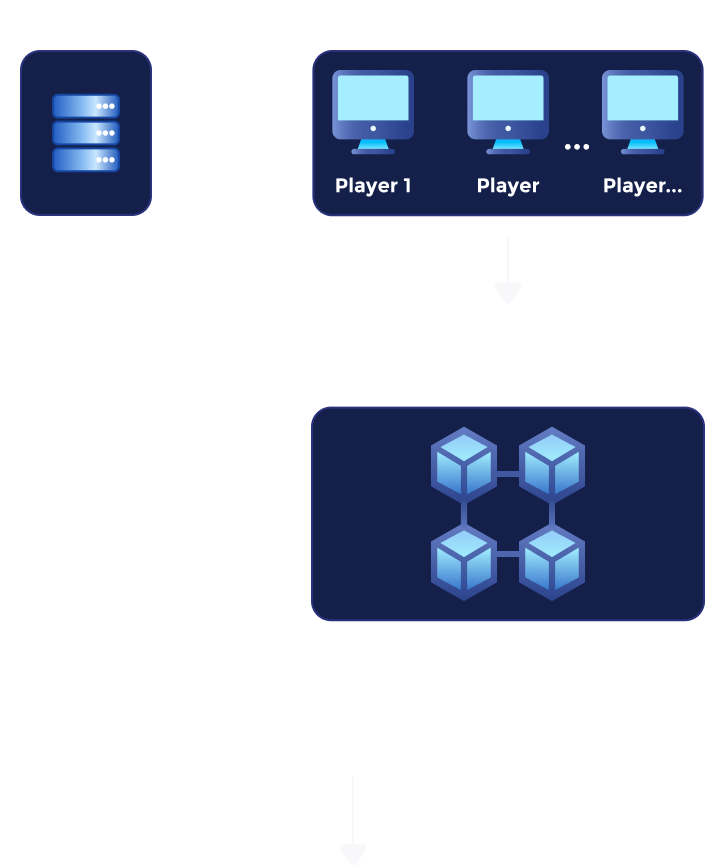
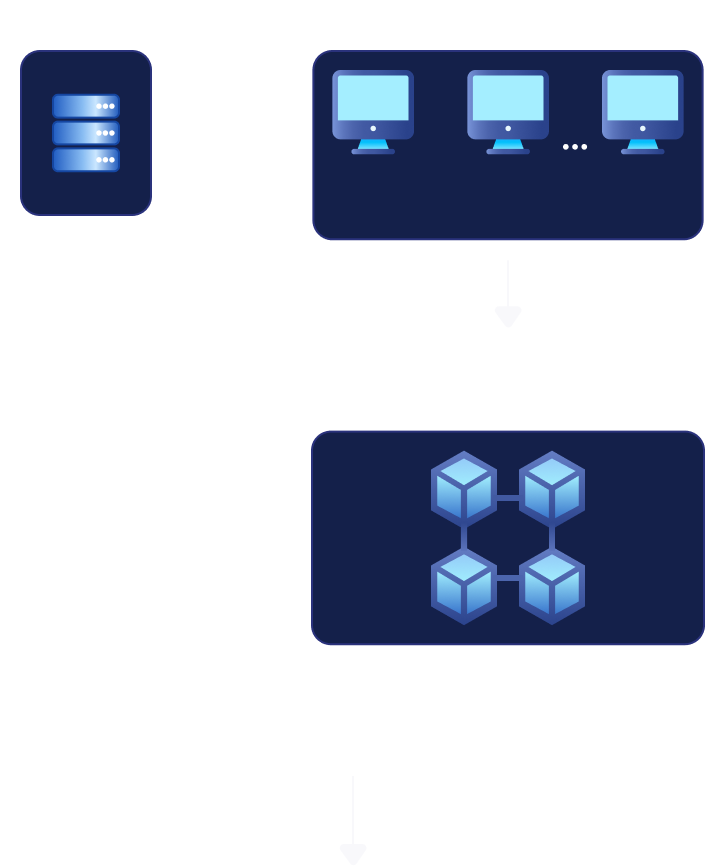
feat: PF guide example section 2 & 3

Changed region(s): [[0.4363, 0.4677, 1.0, 0.7483], [0.4363, 0.1871, 0.9972, 0.2806], [0.8102, 0.1559, 0.8414, 0.1871]]

diff --git a/src/components/game-guide-pf/bac-ball/content.tsx b/src/components/game-guide-pf/bac-ball/content.tsx
@@ -23,7 +23,59 @@ const renderBacBallAppliedInGame = (t: TFnType<DefaultParamType, string, Transla
 };
 
 const renderPFAppliedExample = (t: TFnType<DefaultParamType, string, TranslationKey>, imgVersion: string) => {
-    return <div className={Styles["pf-applied-example"]}></div>;
+    return (
+        <div className={Styles["pf-applied-example"]}>
+            <div className={Styles["pf-applied-example-block-1"]}>
+                <div className={`${Styles["pf-applied-example-text-1"]} ${Styles["pf-text-highlight"]}`}>
+                    {t("pf_server_Seed", { ns: "Common" })}
+                </div>
+                <div className={`${Styles["pf-applied-example-text-2"]} ${Styles["pf-text-highlight"]}`}>
+                    {t("pf_client_seed", { ns: "Common" })}
+                </div>
+                <div className="center-img">
+                    <img
+                        className={Styles["pf-work-example-img-background-full"]}
+                        src={`./static/images/pf-snng/pf-applied-ingame-example-1.png?v=${imgVersion}`}
+                        alt="pf"
+                    ></img>
+                </div>
+                <div className={`${Styles["pf-applied-example-text-3"]} ${Styles["pf-text-highlight"]} text-center`}>
+                    {t("pf_ header_merge_client_seed", { ns: "Common" })} <br />({t("pf_provably_guide_flow", { ns: "SabaNumber" })})
+                </div>
+                <div className={Styles["pf-applied-example-img-text"]}>
+                    <span>{t("glossary_player", { ns: "BacBall" })} 1</span>
+                    <span>{t("glossary_player", { ns: "BacBall" })} 2</span>
+                    <span>{t("glossary_player", { ns: "BacBall" })}...</span>
+                </div>
+            </div>
+            <div className={Styles["pf-applied-example-block-2"]}>
+                <div className={`text-center ${Styles["pf-text-highlight"]}`}>
+                    {t("pf_combined Seed", { ns: "Spaceflight" })} <br />({t("pf_server_Seed", { ns: "Common" })} +{" "}
+                    {t("pf_ header_merge_client_seed", { ns: "Common" })})
+                </div>
+                <div className="center-img" style={{ paddingTop: "0" }}>
+                    <img
+                        className={Styles["pf-merge-seed-img"]}
+                        src={`./static/images/pf-snng/pf-merge-seed.png?v=${imgVersion}`}
+                        alt="pf"
+                    ></img>
+                </div>
+            </div>
+            <div className={Styles["pf-combined-hash"]}>
+                <div className={`${Styles["pf-combined-hash-text"]} ${Styles["pf-text-highlight"]}`}>
+                    {t("pf_header_combined_sha512_hash", { ns: "Common" })}
+                </div>
+                <div className="center-img" style={{ paddingTop: "0" }}>
+                    <img
+                        className={Styles["pf-combined-hash-img"]}
+                        src={`./static/images/pf-snng/pf-combined-hash.png?v=${imgVersion}`}
+                        alt="pf"
+                    ></img>
+                </div>
+            </div>
+            <div className={`${Styles["pf-example-block-final"]}`}>{t("pf_final_result", { ns: "Common" })}</div>
+        </div>
+    );
 };
 
 const renderBacBallVerifyPF = (t: TFnType<DefaultParamType, string, TranslationKey>, imgVersion: string, locale: string) => {

diff --git a/src/components/game-guide-pf/snng-base/pf.module.scss b/src/components/game-guide-pf/snng-base/pf.module.scss
@@ -102,20 +102,29 @@
 // How Does Provably Fair Work? images example
 
 .pf-work-example {
+    width: 34rem;
+    margin: 0 auto;
     margin-top: 4rem;
+}
+
+.pf-work-example-img-background-full {
+    width: 34rem;
+    margin: 0 auto;
+}
+
+.pf-merge-seed-img {
+    width: 19.7rem;
+    margin: 0 auto;
+    margin-top: 1rem;
 }
 
 .pf-work-example-block-1 {
     position: relative;
     margin: 0 auto;
 
-    .pf-work-example-img-background-1 {
-        width: 100%;
-    }
-
     .pf-work-example-text-1 {
         position: absolute;
-        top: -2.3rem;
+        top: -1.3rem;
         width: 6.5rem;
         text-align: center;
         line-height: 1.2;
@@ -123,14 +132,14 @@
 
     .pf-work-example-text-2 {
         position: absolute;
-        top: -2.5rem;
+        top: -1.5rem;
         right: 50%;
         transform: translate(50%, 0);
     }
 
     .pf-work-example-text-3 {
         position: absolute;
-        top: -2.3rem;
+        top: -1.3rem;
         width: 7rem;
         right: -0.2rem;
         text-align: center;
@@ -141,8 +150,10 @@
         position: absolute;
         right: 50%;
         transform: translate(50%, 0);
-        top: 5.5rem;
+        top: 6.2rem;
+        height: 3.5rem;
         display: flex;
+        align-items: center;
         gap: 1.4rem;
         font-size: 1rem;
         font-weight: 700;
@@ -158,15 +169,9 @@
 .pf-word-example-block-2 {
     text-align: center;
     padding-top: 1rem;
-
-    .pf-work-example-img-2 {
-        width: 19.7rem;
-        margin: 0 auto;
-        margin-top: 1rem;
-    }
 }
 
-.pf-word-example-block-3 {
+.pf-example-block-final {
     display: flex;
     justify-content: center;
     align-items: center;
@@ -184,4 +189,61 @@
 
 // How is Provably Fair Applied In-game? images example
 .pf-applied-example {
+    position: relative;
+    width: 34rem;
+    margin: 0 auto;
+
+    .pf-applied-example-block-1 {
+        position: relative;
+    }
+
+    .pf-applied-example-text-1 {
+        position: absolute;
+        top: 0.5rem;
+    }
+
+    .pf-applied-example-text-2 {
+        position: absolute;
+        top: 0.5rem;
+        right: 6rem;
+    }
+
+    .pf-applied-example-text-3 {
+        position: absolute;
+        top: 17.5rem;
+        right: 0.9rem;
+    }
+
+    .pf-applied-example-img-text {
+        position: absolute;
+        right: 0.7rem;
+        top: 8.5rem;
+        height: 3.5rem;
+        display: flex;
+        align-items: center;
+        gap: 1.4rem;
+        font-size: 1rem;
+        font-weight: 700;
+        color: #fff;
+
+        > span {
+            width: 5rem;
+            text-align: center;
+        }
+    }
+}
+
+.pf-combined-hash {
+    position: relative;
+
+    .pf-combined-hash-img {
+        width: 28.3rem;
+    }
+
+    .pf-combined-hash-text {
+        position: absolute;
+        right: 50%;
+        transform: translate(50%, 0);
+        top: 1rem;
+    }
 }

diff --git a/src/components/game-guide-pf/snng-base/index.tsx b/src/components/game-guide-pf/snng-base/index.tsx
@@ -62,11 +62,14 @@ const renderPFWorkExample = (t: TFnType<DefaultParamType, string, TranslationKey
                 <div className={`${Styles["pf-work-example-text-3"]} ${Styles["pf-text-highlight"]}`}>
                     {<Markup content={t("pf_bacball_nonce", { ns: "SabaNumber" })} />}
                 </div>
-                <img
-                    className={Styles["pf-work-example-img-background-1"]}
-                    src={`./static/images/pf-snng/pf-work-example-1.png?v=${imgVersion}`}
-                    alt="pf"
-                ></img>
+                <div className="center-img">
+                    <img
+                        className={Styles["pf-work-example-img-background-full"]}
+                        src={`./static/images/pf-snng/pf-work-example-1.png?v=${imgVersion}`}
+                        alt="pf"
+                    ></img>
+                </div>
+
                 <div className={Styles["pf-work-example-img-text"]}>
                     <span>{t("glossary_player", { ns: "BacBall" })} 1</span>
                     <span>{t("glossary_player", { ns: "BacBall" })} 2</span>
@@ -77,12 +80,12 @@ const renderPFWorkExample = (t: TFnType<DefaultParamType, string, TranslationKey
                 <div className={Styles["pf-text-highlight"]}>{t("pf_merge_seed", { ns: "Common" })}</div>
                 <div className={Styles["pf-text-highlight"]}>{t("pf_server_client_nonce", { ns: "Common" })}</div>
                 <img
-                    className={Styles["pf-work-example-img-2"]}
-                    src={`./static/images/pf-snng/pf-work-example-2.png?v=${imgVersion}`}
+                    className={Styles["pf-merge-seed-img"]}
+                    src={`./static/images/pf-snng/pf-merge-seed.png?v=${imgVersion}`}
                     alt="pf"
                 ></img>
             </div>
-            <div className={`${Styles["pf-word-example-block-3"]}`}>{t("pf_final_result", { ns: "Common" })}</div>
+            <div className={`${Styles["pf-example-block-final"]}`}>{t("pf_final_result", { ns: "Common" })}</div>
         </div>
     );
 };
